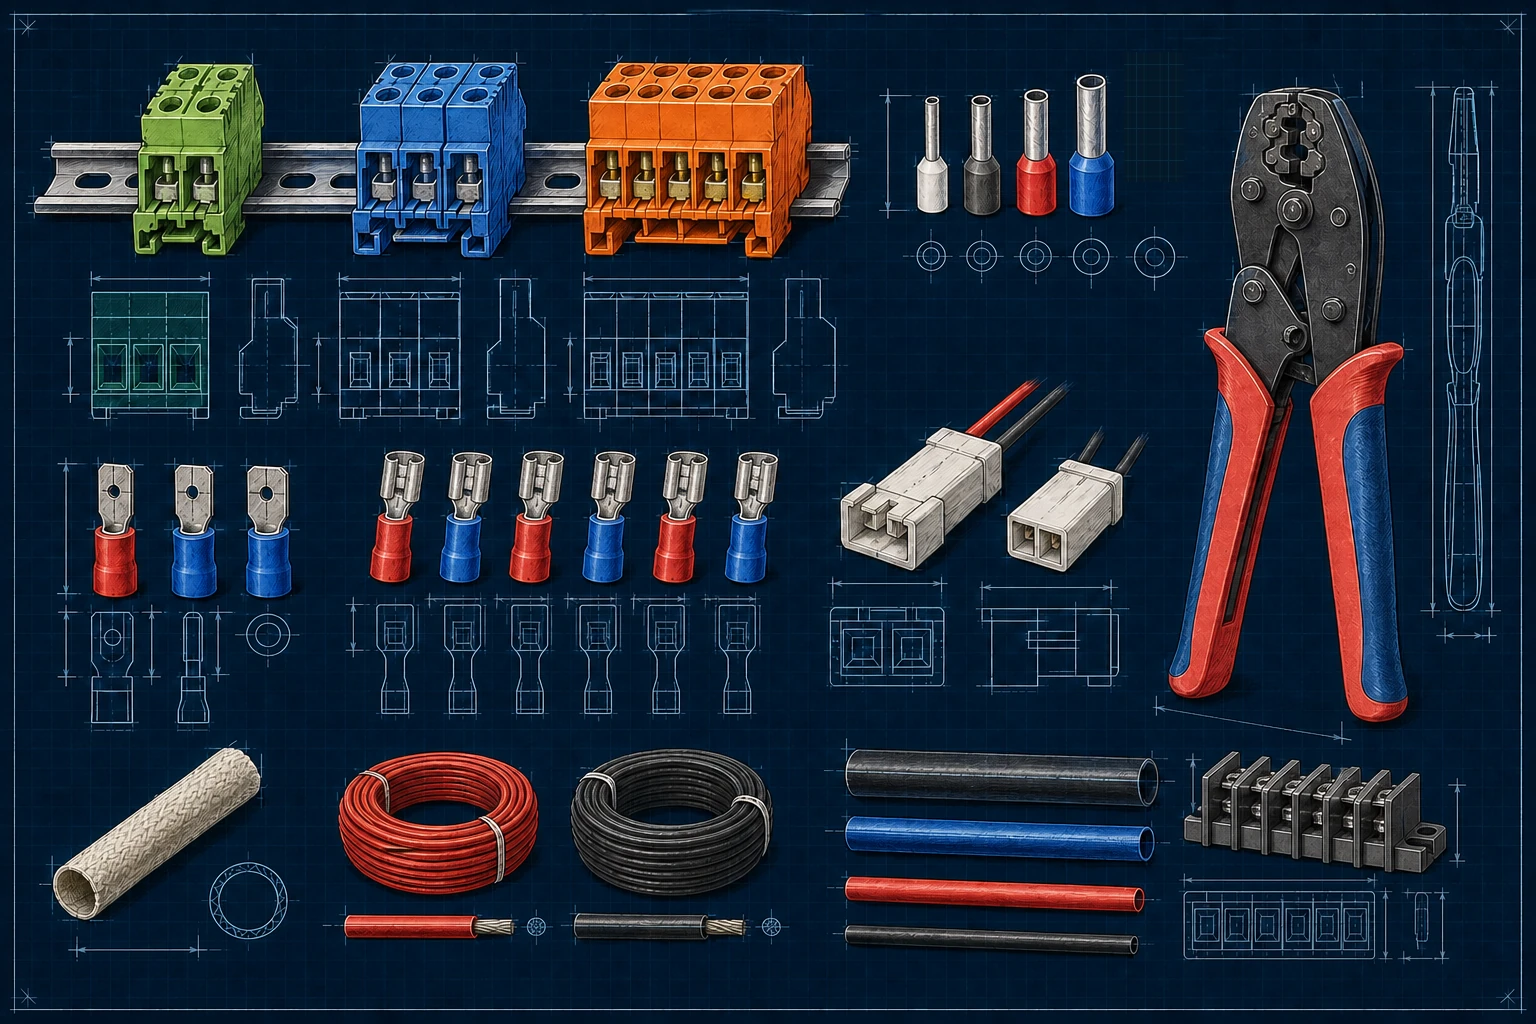
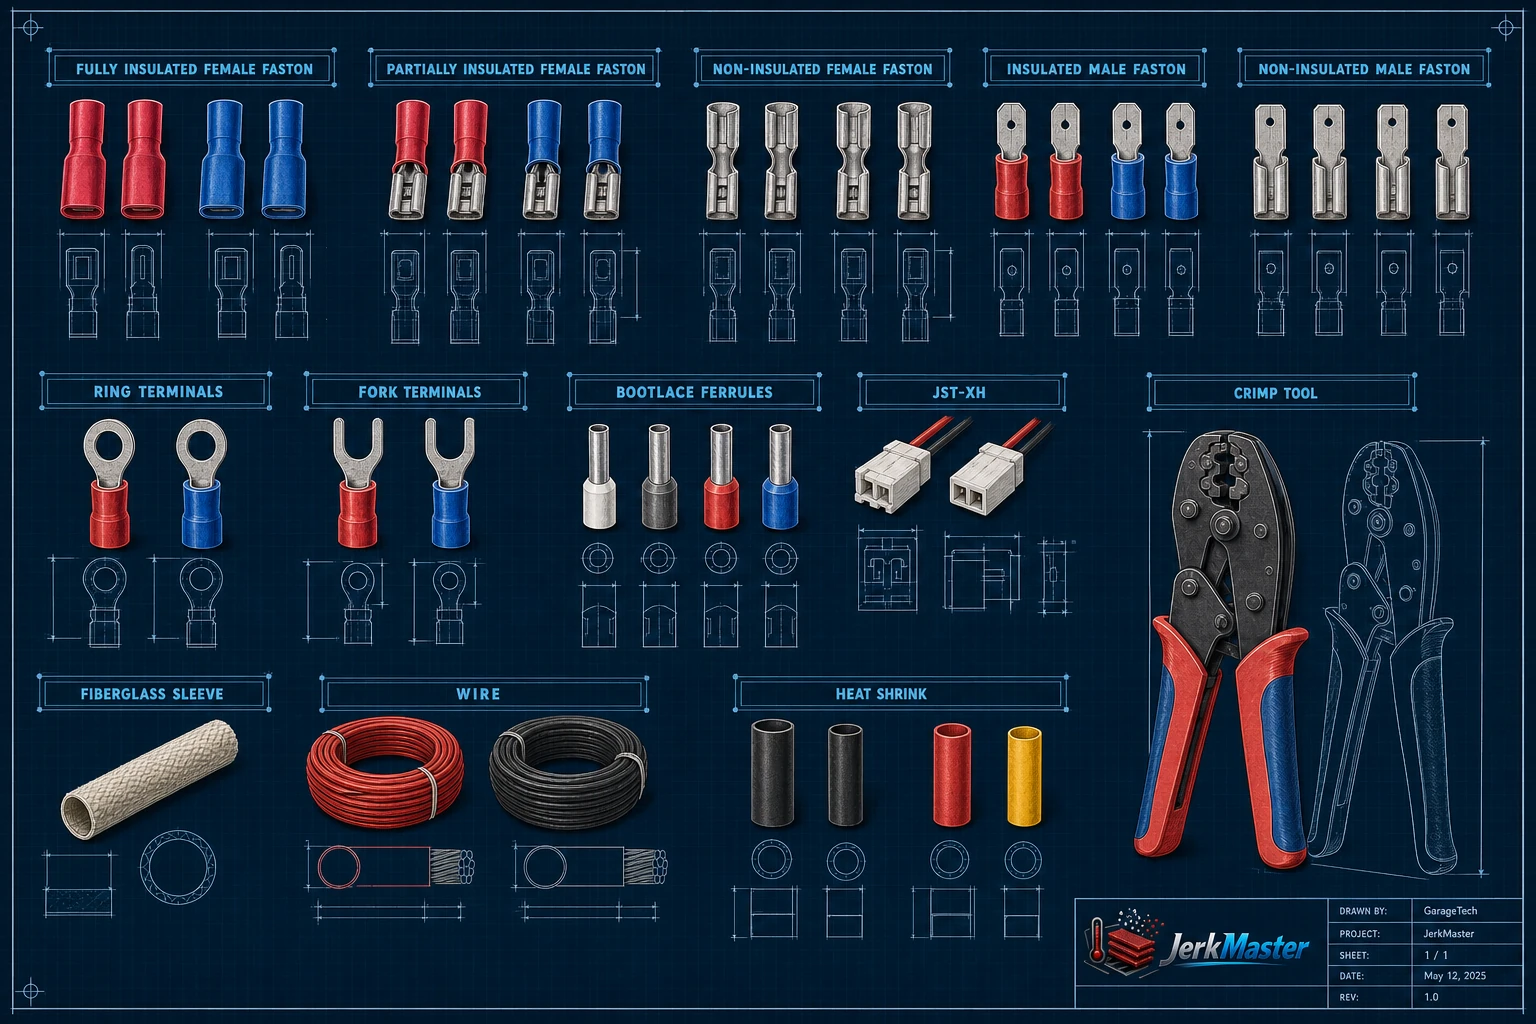
Expand terminal and fastener blueprint documentation

diff --git a/docs/hardware.md b/docs/hardware.md
@@ -80,6 +80,12 @@ The reference JerkMaster build uses the components below. Equivalent parts can b
 
 ![Terminal blocks, ferrules, connectors and crimping tools](../img/docs/illustrations/terminals-wiring-blueprint.webp)
 
+The electrical connection sheet compares fully insulated, partially insulated and non-insulated Faston terminals, male and female contacts, ring and fork terminals, ferrules, wiring protection and the correct crimping tool.
+
+![Screws, nuts, washers and PCB standoffs](../img/docs/illustrations/fasteners-standoffs-blueprint.webp)
+
+The fastener sheet shows the common screw sizes, nuts, washers, PCB spacers and male-female or female-female standoffs used when mounting controller boards and power electronics.
+
 - M2.5/M3 standoffs
 - M2.5/M3/M4 fasteners
 - Fiberglass insulation sleeve d4/6/12 mm